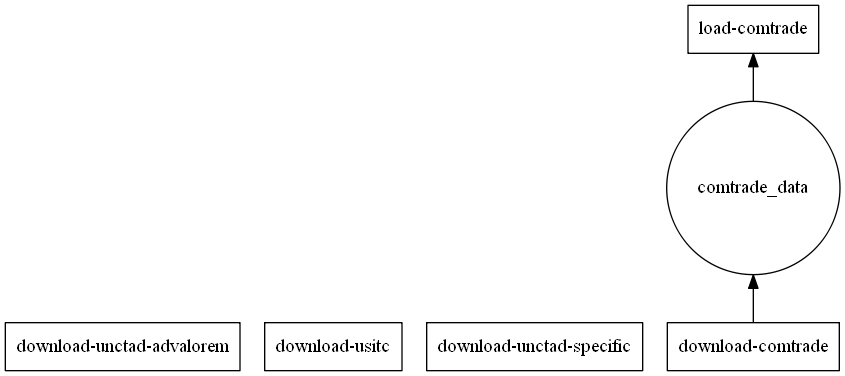
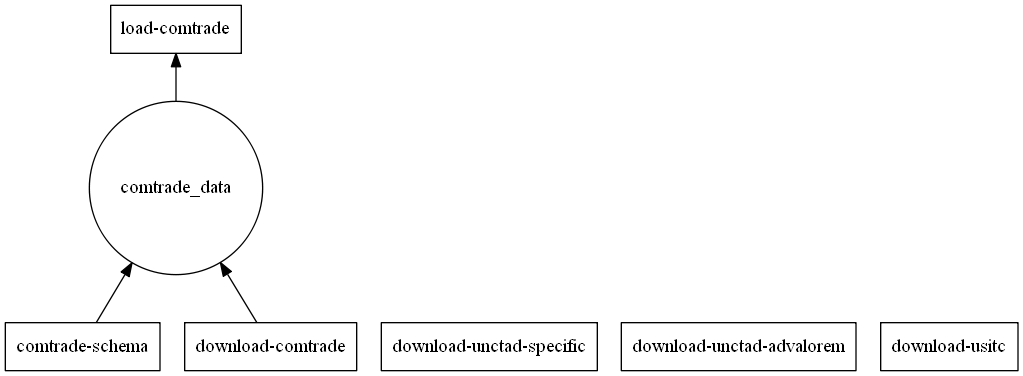
updated pipeline

diff --git a/code/cleaning/unit_conversion_factors.py b/code/cleaning/unit_conversion_factors.py
@@ -6,29 +6,28 @@ from sqlalchemy import text
 
 conn = sa.create_engine("mysql+pymysql://CMARCINIAK:ifpri360@localhost/comtrade?charset=utf8mb4")
 
-table_list = ["comtradehs"+str(i) for i in range(1995,2014)]
+conn.execute("ALTER TABLE conversion_factors drop id")
+table_list = ["comtradehs"+str(i) for i in range(1995,2015)]
+table_dictionary = dict(zip(table_list,list(range(0,20))))
 
 
-q = "SELECT DISTINCT commodity_code from comtradehs1996"
-
-codes = list(pd.read_sql(q,conn)['commodity_code'])
-
-query = """INSERT INTO conversion_factors SELECT t1.`commodity`,t1.commodity_code,t1.`reporter_code`,t2.reporter_code,t1.`trade_flow` as tf1, t2.trade_flow as tf2,t1.qty_unit, t2.qty_unit,t1.quantity as q1,t2.quantity as q2, t1.quantity/t2.quantity as ratio
-FROM comtradehs1996 as t1, comtradehs1996 as t2
-WHERE t1.commodity_code=%s
-AND t1.commodity_code=t2.commodity_code
-AND t1.reporter_code=t2.partner_code
-AND t2.reporter_code=t1.partner_code
-AND t1.trade_flow_code!=t2.trade_flow_code
-AND t1.trade_flow_code!=3
-AND t2.trade_flow_code!=3
-AND t1.`qty_unit_code`=8
-AND t2.`qty_unit_code`!=8""".replace("\n"," ")
-
-#data = pd.read_sql(query,conn)
-#print(data)
-for code in codes:
-	conn.execute(query,(code))
+for table in table_list:
+	table_dictionary[table] #whitelist table name
+	q = "SELECT DISTINCT commodity_code from {0}".format(table)
+	codes = list(pd.read_sql(q,conn)['commodity_code'])
+	query = """INSERT INTO conversion_factors SELECT t1.`commodity`,t1.commodity_code,t1.`reporter_code`,t2.reporter_code,t1.year,t1.`trade_flow` as tf1, t2.trade_flow as tf2,t1.qty_unit, t2.qty_unit,t1.quantity as q1,t2.quantity as q2, t1.quantity/t2.quantity as ratio
+	FROM {0} as t1, {0} as t2
+	WHERE t1.commodity_code=%s
+	AND t1.commodity_code=t2.commodity_code
+	AND t1.reporter_code=t2.partner_code
+	AND t2.reporter_code=t1.partner_code
+	AND t1.trade_flow_code!=t2.trade_flow_code
+	AND t1.trade_flow_code!=3
+	AND t2.trade_flow_code!=3
+	AND t1.`qty_unit_code`=8
+	AND t2.`qty_unit_code`!=8""".replace("\n"," ").replace("\t"," ").format(table)
+	for code in codes:
+		conn.execute(query,(code))
 
 	
 	

diff --git a/code/cleaning/comtrade_schema.py b/code/cleaning/comtrade_schema.py
@@ -60,17 +60,14 @@ class ConversionFactors(Base):
 		Column('kg_per_unit',Float, default=ratio)		
 	)
 
-table_list = ["comtradehs"+str(i) for i in range(1995,2015)]
-print(table_list)	
-table_dictionary = dict(zip(table_list,list(range(0,20))))
-print(table_dictionary)
 
-def whitelist(tablename):
+def whitelist(tablename,table_list):
+	table_dictionary = dict(zip(table_list,list(range(0,20))))
 	return table_dictionary[tablename]
 
-def drop_index(tablename,engine):
+def drop_index(tablename,table_list,engine):
 	try:
-		whitelist(tablename)
+		whitelist(tablename,table_list)
 		query1 = "ALTER TABLE {0} MODIFY id INT".format(tablename)
 		query2 = "ALTER TABLE {0} DROP PRIMARY KEY".format(tablename)
 		engine.execute(query1)
@@ -81,13 +78,16 @@ def drop_index(tablename,engine):
 		print("table name "+tablename+" is not valid")
 
 
-for table in table_list:
-	create_comtrade(table)
-	
-	
-Base.metadata.create_all(conn)
-	
-
-
-for table in table_list:
-	drop_index(table,conn)
+		
+def main():
+	table_list = ["comtradehs"+str(i) for i in range(1995,2015)]
+	for table in table_list:
+		create_comtrade(table)
+	Base.metadata.create_all(conn)
+	table_list.append("conversion_factors")
+	for table in table_list:
+		drop_index(table,table_list,conn)
+		
+		
+if __name__=="__main__":	
+	main()

diff --git a/code/pipeline.py b/code/pipeline.py
@@ -3,14 +3,15 @@
 import dask
 from dask.dot import dot_graph
 from download_scripts import comtrade, unctad_specific, unctad_advalorem, usitc
-from cleaning import sql_load
+from cleaning import sql_load, comtrade_schema
 
 dsk = {
 	'download-comtrade': (comtrade.main),
 	'download-unctad-specific': (unctad_specific.main),
 	'download-unctad-advalorem': (unctad_advalorem.main),
 	'download-usitc': (usitc.main),
-	'load-comtrade':(sql_load.comtrade_data,'download-comtrade')
+	'comtrade-schema':(comtrade_schema.main),
+	'load-comtrade':(sql_load.comtrade_data,['comtrade-schema','download-comtrade'])
 }
 
 dot_graph(dsk)

diff --git a/code/cleaning/sql_load.py b/code/cleaning/sql_load.py
@@ -85,7 +85,7 @@ if __name__=="__main__":
 	inputs = get_inputs(data_dir)
 	#for input in inputs:
 	#	load_to_sql(input)
-	load_to_sql(inputs[1])
+	load_to_sql(inputs[0])
 	#load_to_sql(inputs[0])
 	#p = Pool(threads)
 	#p.map(load_to_sql,inputs)
